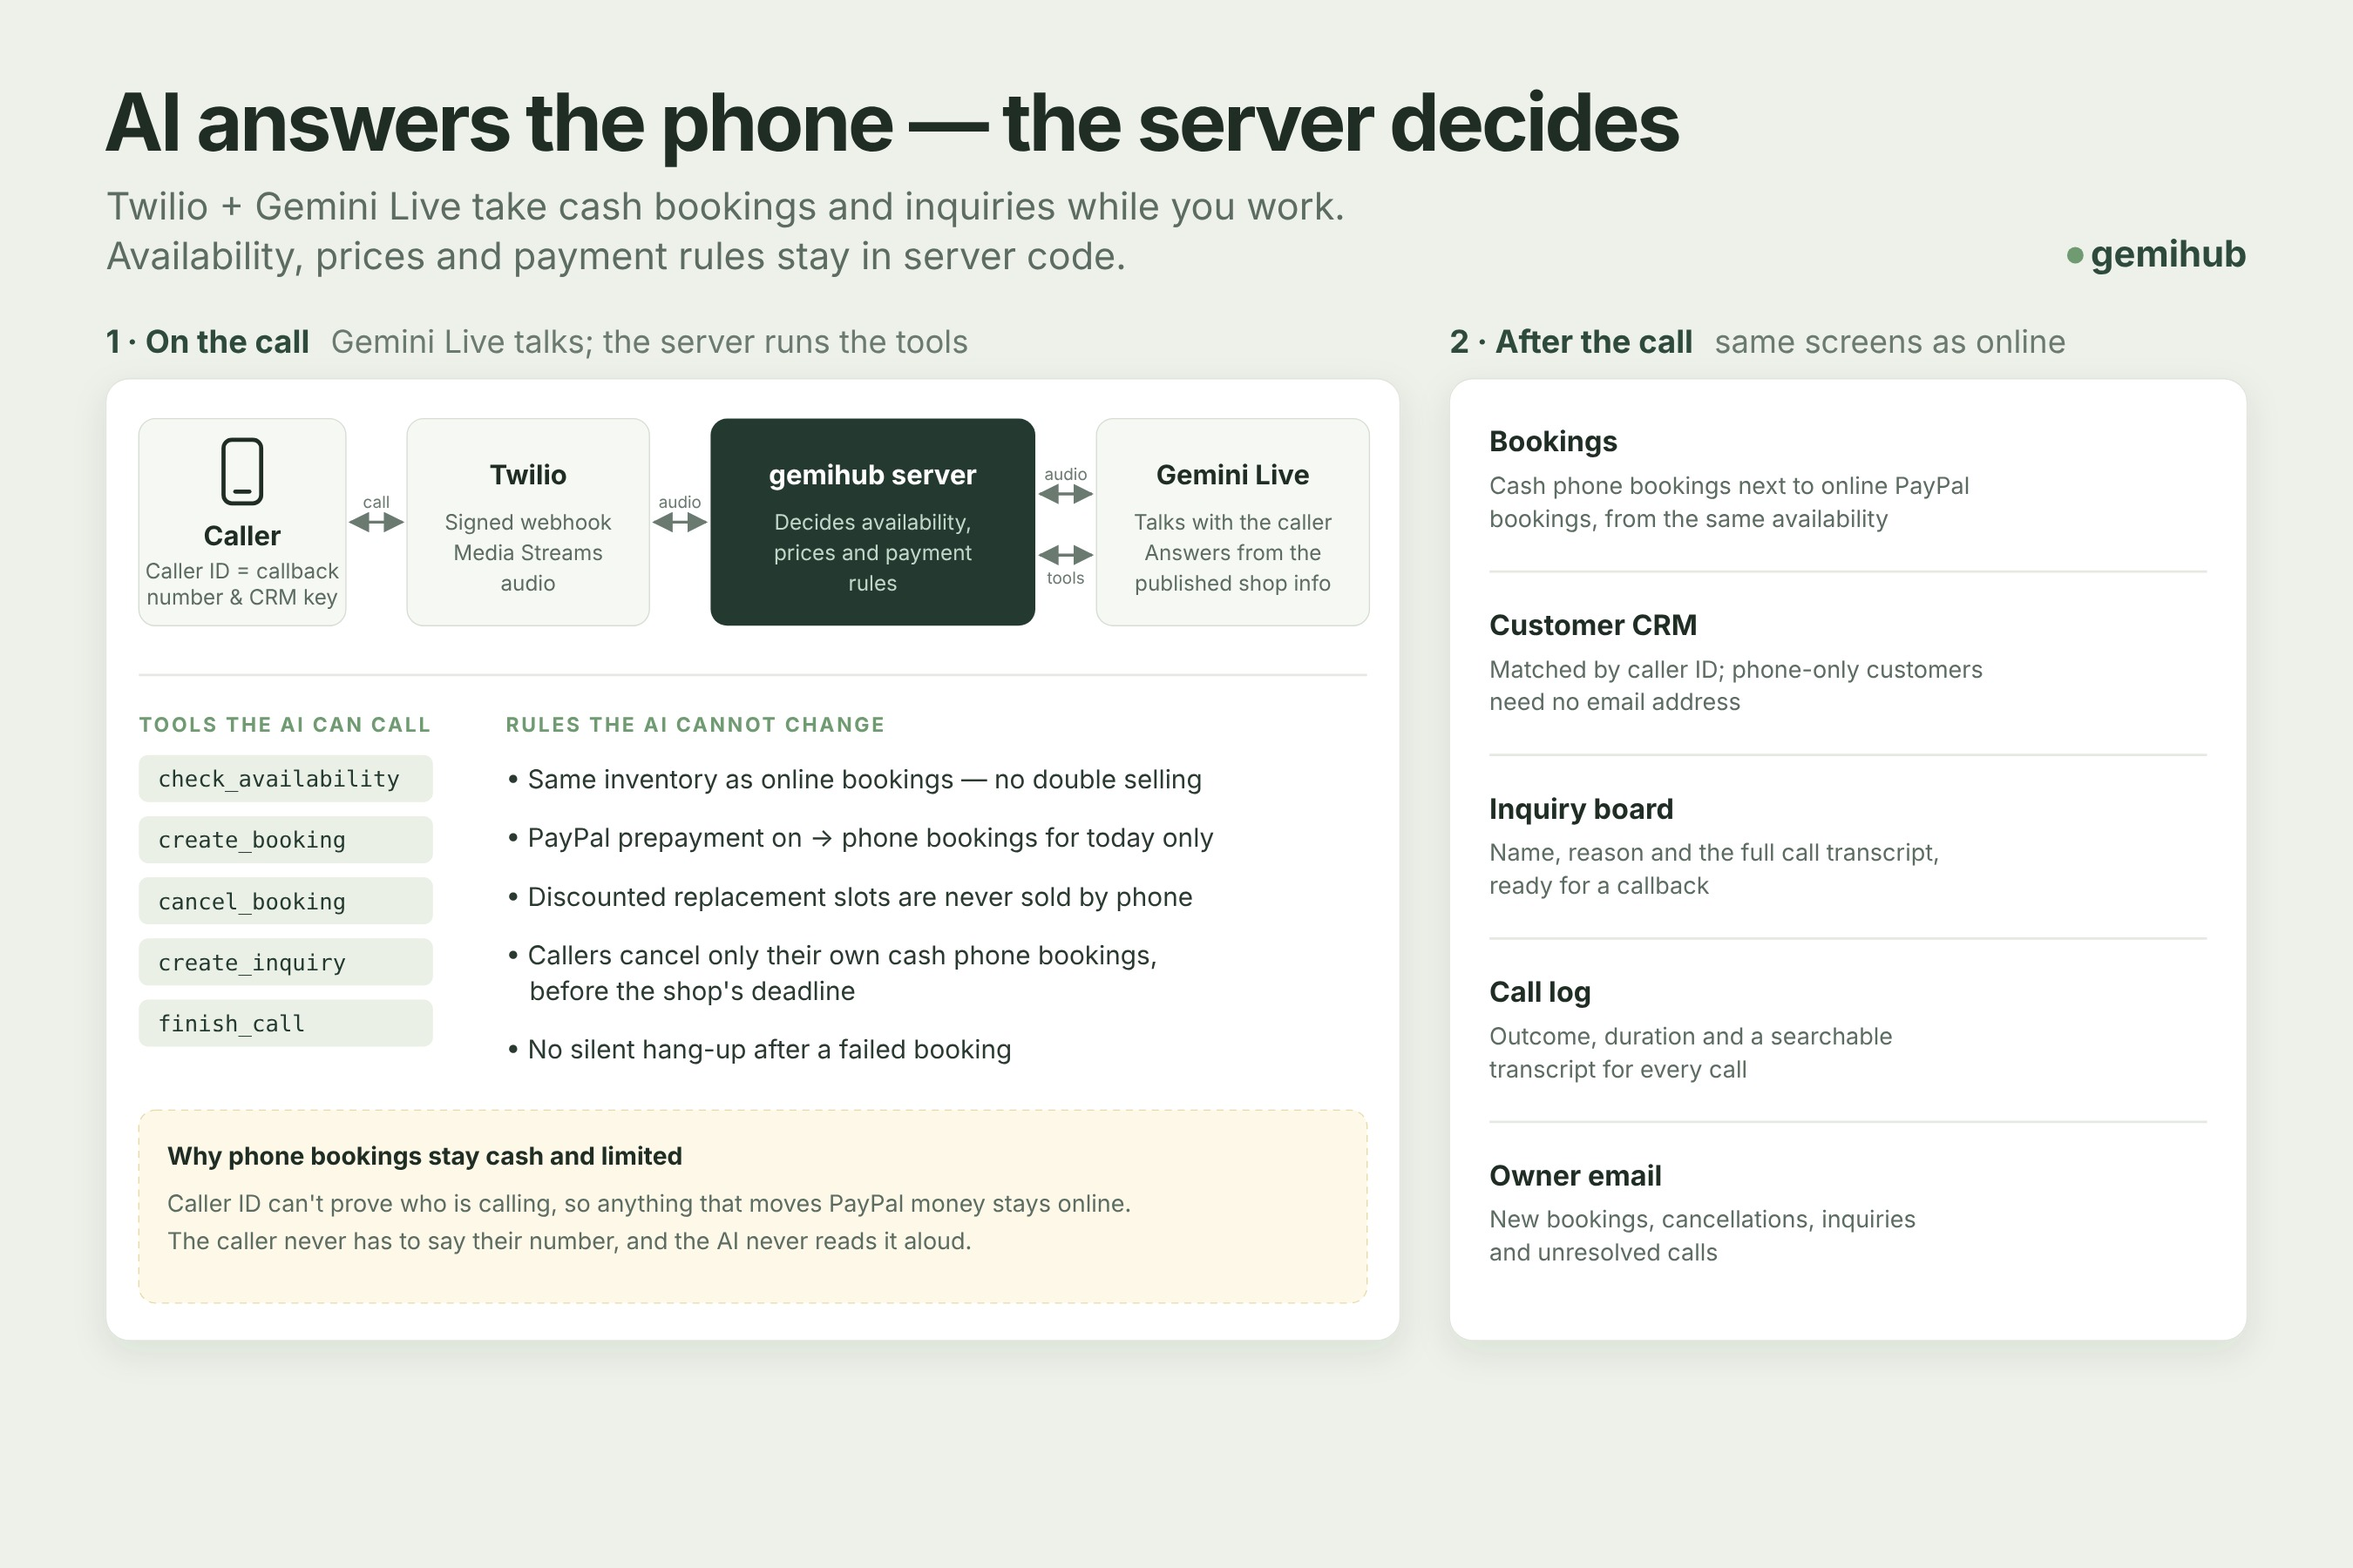
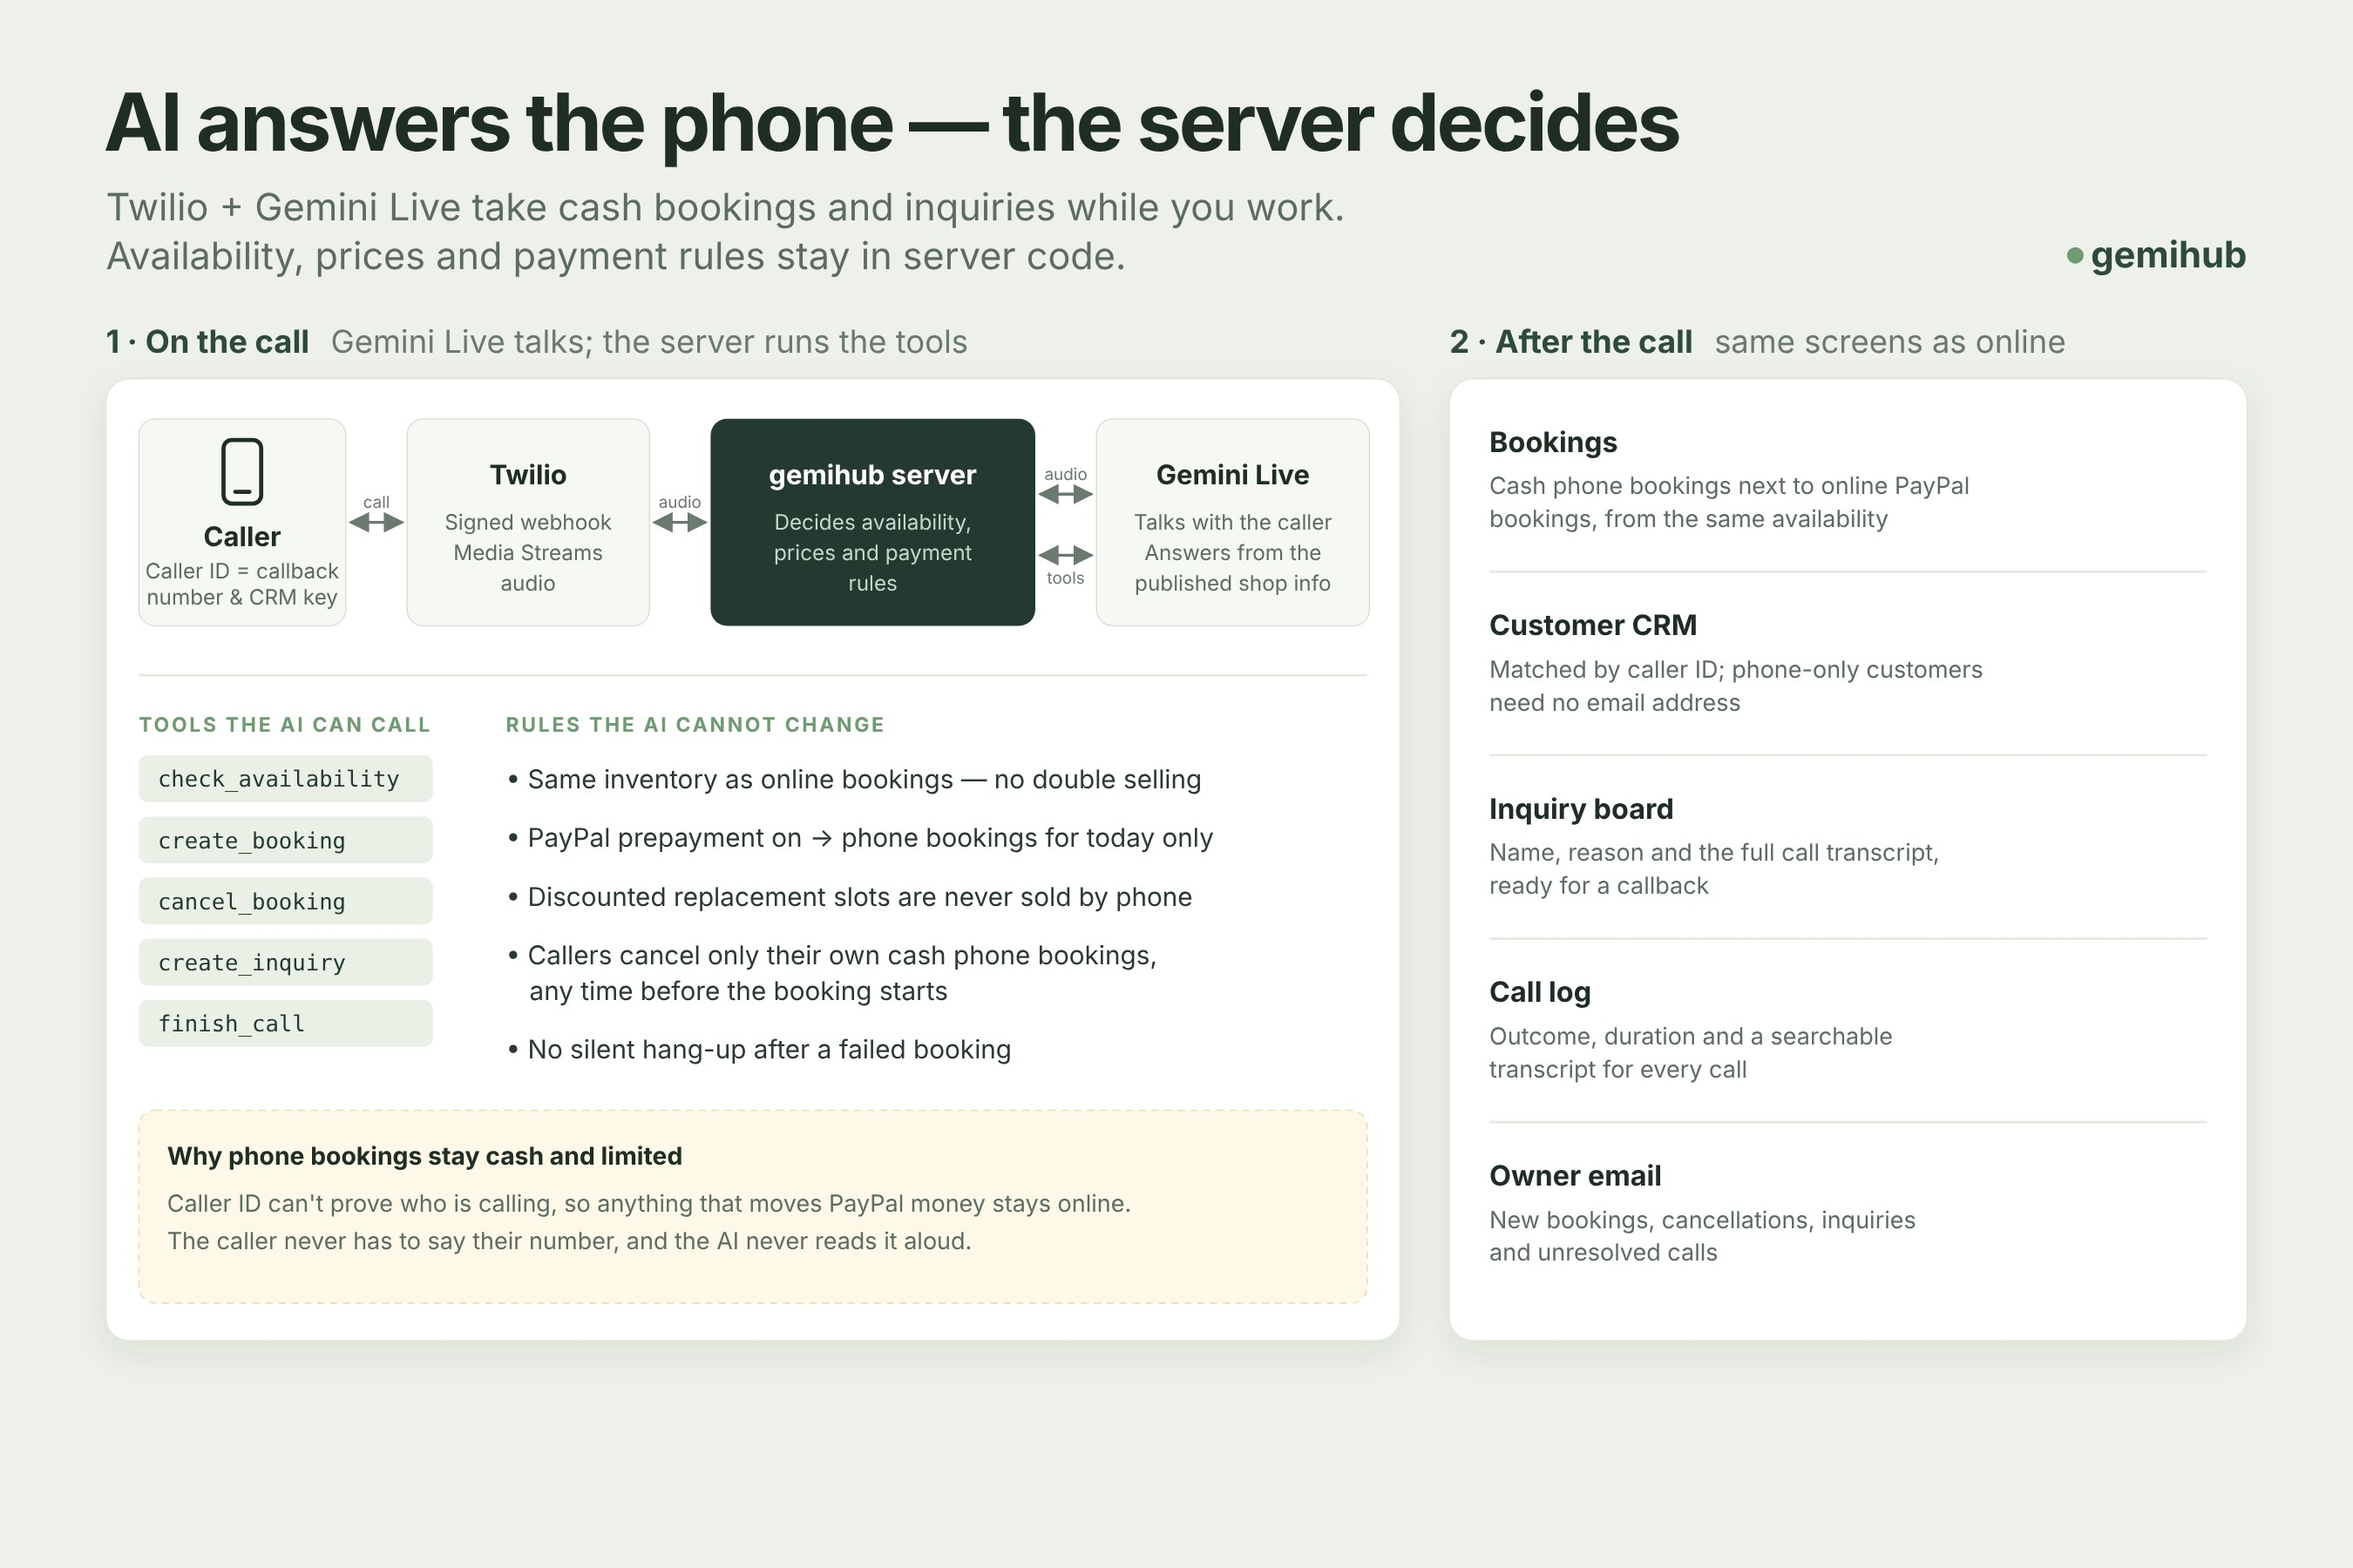
docs: clarify when PayPal proposals appear and fix the phone gallery image
- The consult screenshot caption no longer implies a proposal always appears.
- The phone reception gallery image now says callers can cancel any time
  before the booking starts, matching the README and the implementation.

Claude-Session: https://claude.ai/code/session_01NDmQKUfEkQ6dEMXci1QvJJ

Changed region(s): [[0.2178, 0.6222, 0.4044, 0.6533], [0.28, 0.1244, 0.3422, 0.1556], [0.4667, 0.1244, 0.4978, 0.1556]]

diff --git a/src/Manual.tsx b/src/Manual.tsx
@@ -284,7 +284,7 @@ const chapters: { id: string; title: string; steps: Step[] }[] = [
           tr("「要対応」の下の「通知の設定」を開くと、「メールで通知する」のオン・オフと「ダイジェストの時刻」を選べます。「通知設定を保存」で反映します。オンの場合、緊急の項目は見つかった時点で、そのほかはお店の時間で指定した時刻以降に1日1回まとめて、店主にメールで届きます。"),
         ]; },
         image: "72-paypal-attention.jpg",
-        extra: [{ image: "73-paypal-consult.jpg", get caption() { return tr("「相談する」を押すと、AIの説明の下に「PayPalの提案」が表示されます。承認するまで実行されません。"); } }],
+        extra: [{ image: "73-paypal-consult.jpg", get caption() { return tr("「相談する」を押すとAIが説明します。対応案がある場合は、AIの説明の下に「PayPalの提案」として表示されます。承認するまで実行されません。"); } }],
         get caption() { return tr("ダッシュボードの「要対応」。項目ごとに「相談する」と、対応案の「承認して実行」があります。金額と予約はサンプルです。"); },
         get tip() { return tr("「要対応」と「承認して実行」は店主だけに表示されます。AIはPayPalに書き込まず、金額も決めません。対応案が表示されない項目は、この画面からは実行できません。「相談する」で状況を確認してください。"); },
         get related() { return [{ id: "system", label: tr("「相談・質問」でお店のことを聞く") }, { id: "cancellation", label: tr("キャンセル後の返金予定額を確認する") }]; },
